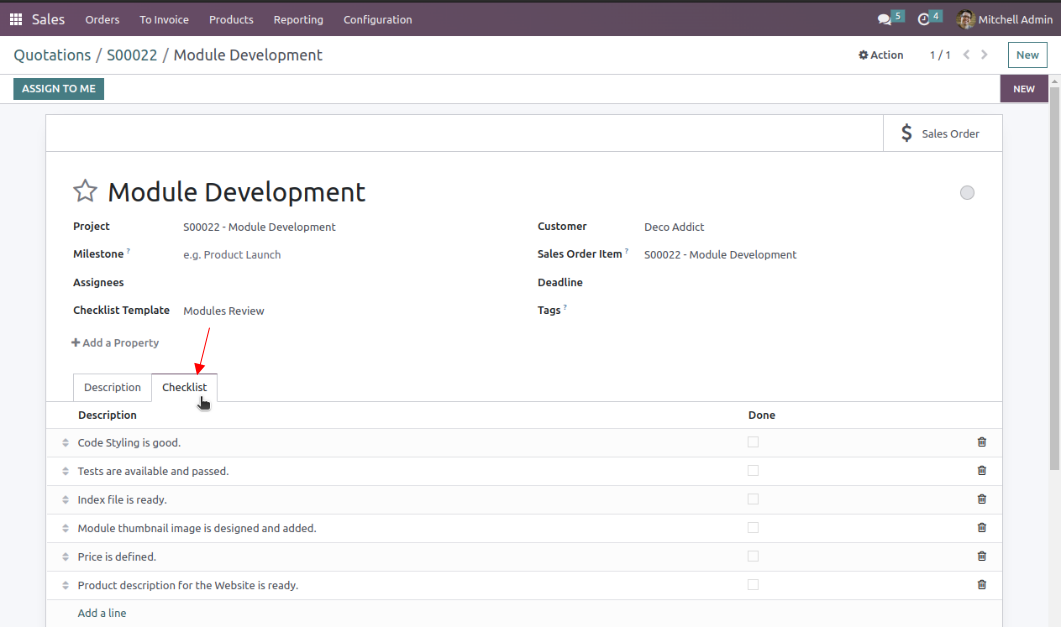
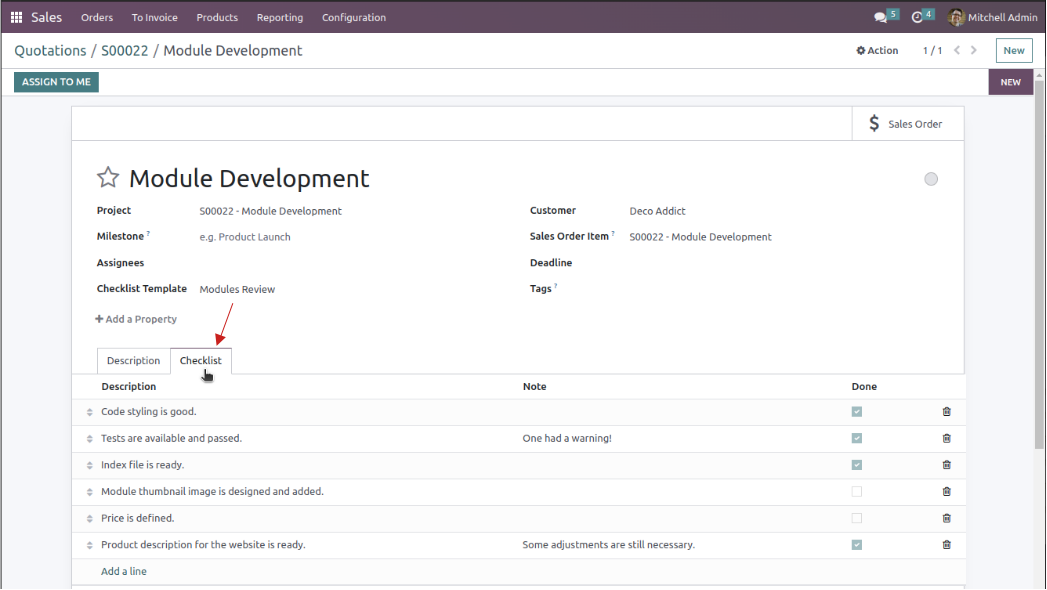
[UPD] make some changes

diff --git a/bi_project_task_checklist/static/description/index.html b/bi_project_task_checklist/static/description/index.html
@@ -109,6 +109,14 @@
                                     Support
                                 </span>
                             </li>
+                            <li class="nav-item rounded"
+                                style="cursor:pointer; background-color: #A7FF85;color: #0f0210;border-top-left-radius: 20px !important;border-top-right-radius: 20px !important;font-weight: 600;font-size: 20px;margin: 0 2px;margin-bottom: 0;">
+                                <span class="nav-link rounded" data-toggle="tab" href="#ReleaseNotes"
+                                    style="color: #0f0210;cursor: pointer;padding: 10px 20px;border-top-left-radius: 20px !important;border-top-right-radius: 20px !important;">
+                                    <span class="fa fa-tags"></span>
+                                    Release Notes
+                                </span>
+                            </li>
                         </ul>
                         <div class="tab-content shadow"
                             style="padding-top: 30px;background-color: #383E45;padding-bottom: 30px;margin-top: 0; border-radius: 20px; box-shadow: 5px 10px #32152A !important;">
@@ -196,10 +204,6 @@
                                 </section>
                             </div>
                             <!-- tab 3 -->
-                            <!-- tab 3 -->
-                            <!-- tab 4 -->
-                            <!-- tab 4 -->
-                            <!-- tab 5 -->
                             <div id="Support" class="tab-pane fade container">
                                 <div class="row">
                                     <div class="col-md">
@@ -231,7 +235,38 @@
                                     </div>
                                 </div>
                             </div>
-                            <!-- tab 5 -->
+                            <!-- tab 4 -->
+                            <div id="ReleaseNotes" class="tab-pane container">
+                                <div class="row">
+                                    <div class="col-md">
+                                        <div class="sh_content rounded" style="padding: 20px;margin-bottom: 0px;">
+                                            <p style="font-size: 18px; color: #e8ffe1;">
+                                                <strong style="color: #A7FF85;">Release Update - Dec 27, 2023</strong>
+                                                <br/>
+                                                Version - 16.0.2.0.0
+                                                <br/>
+                                                <span class="fa fa-check"/>
+                                                Improvement (New Features)
+                                            </p>
+                                            <ul style="color: #e8ffe1;">
+                                                <li>Possibility to add a 'Note' on the checklist item.</li>
+                                                <li>Adding the Checkbox to the list view of the checklist items in the reporting.</li>
+                                            </ul>
+                                        </div>
+                                        <hr>
+                                        <div class="sh_content rounded" style="padding: 20px;margin-bottom: 0px;">
+                                            <p style="font-size: 18px; color: #e8ffe1;">
+                                                <strong style="color: #A7FF85;">Release Update - Dec 04, 2023</strong>
+                                                <br/>
+                                                Version - 16.0.1.0.0
+                                            </p>
+                                            <ul style="color: #e8ffe1;">
+                                                <li>Initial Release</li>
+                                            </ul>
+                                        </div>
+                                    </div>
+                                </div>
+                            </div>
                         </div>
                     </div>
                 </section>

diff --git a/bi_project_task_checklist/__manifest__.py b/bi_project_task_checklist/__manifest__.py
@@ -3,7 +3,7 @@
 
 {
     "name": "Project Task Checklist - bitigloo",
-    "version": "16.0.1.0.0",
+    "version": "16.0.2.0.0",
     "category": "Sales",
     "summary": "Module Customizations for project app, to add checklist on the tasks",
     "description": """Some Customizations for project app, to add checklist on the tasks""",
@@ -19,8 +19,7 @@
         "views/task_type_edit_views.xml",
     ],
     "installable": True,
-    "images": ['static/description/project_task_checklist_background.png'],
     "application": False,
-    "license": "LGPL-3",
+    "license": "GPL-3 or any later version",
     "support": "apps@bitigloo.com"
 }

diff --git a/bi_project_task_checklist/models/checklist.py b/bi_project_task_checklist/models/checklist.py
@@ -8,6 +8,7 @@ class Checklist(models.Model):
     _description = 'Checklist'
 
     description = fields.Char(string='Description', required=True)
+    note = fields.Char(string='Note')
     sequence = fields.Integer(string="Sequence", default=10)
     checkbox = fields.Boolean(string='Done', default=False)
     task_id = fields.Many2one('project.task', string='Task')
